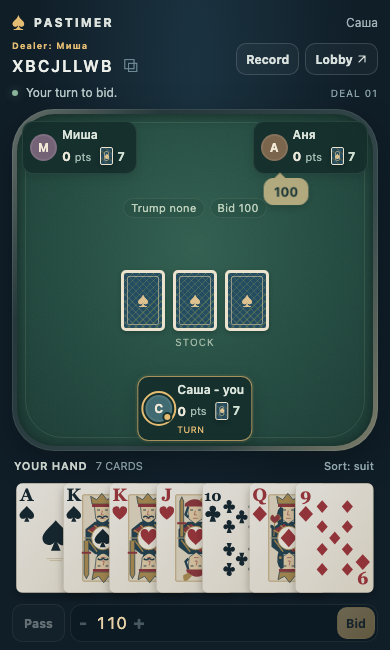
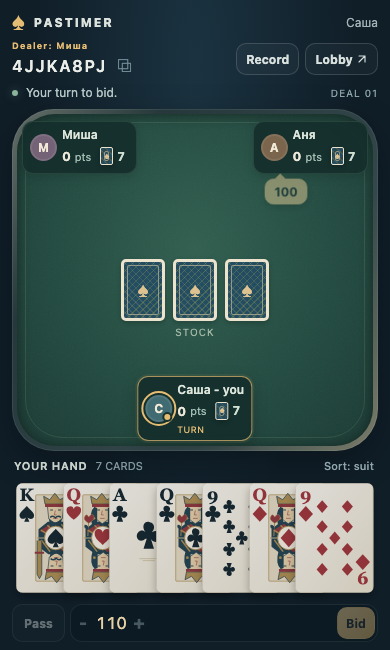
Record verified table-cues rollout and persistent game checks

diff --git a/docs/handoff.md b/docs/handoff.md
@@ -6,7 +6,7 @@ Updated 2026-11-14. Repository: `mvartanyan/pastimer`. Local Horse continuation:
 
 The Rust multiplayer platform, the owner's complete Thousand rules, audit verifier and redesigned card-table UI are implemented. **Pastimer is deployed and verified on Horse at https://1000.vartanyan.com**, using the established local `/Users/michael/dev/k3s-horse` setup. [@pastimerbot](https://t.me/pastimerbot) has a verified default `Play / Играть` menu button pointing to that origin.
 
-The running application source is `60c380824d4b0b3f55d36a79db950c5eb905f637`. Transfers now drag to player hands and turn on tap; eligible marriages default on, and the current trump uses crossed gold rings plus its suit. Incoming cards now use a highlight without sender/tap labels, and reopening a deal no longer replays stale receipts or miscounts the hand. The current gameplay update includes paced auction calls, stronger computer seats, one-screen play, readable cards, hand-selected transfers and table recovery after reopening. The owner confirmed actual Telegram launch, identity and table creation. Live browser checks also completed solo/two-human computer games and verified their proofs with the deployed audit binary. Original sessions, completed room and exact audit survived both pod replacement and this upgrade. See [the current Horse release record](horse-transfers-marriages-2026-11-14.md) for image digests, backups and checks; [the initial record](horse-2026-11-14.md) retains the first deployment history.
+The running application source is `f54714d388be37749979e8fe206a323c73d7de9e`. The table now has one centred top-view trump symbol, large rings on announcing cards, owner-anchored played cards, a persistent leader cue and animated collection to the winning hand. Contract information appears only at its owner's seat. Transfers now drag to player hands and turn on tap; eligible marriages default on, and the current trump uses crossed gold rings plus its suit. Incoming cards now use a highlight without sender/tap labels, and reopening a deal no longer replays stale receipts or miscounts the hand. The current gameplay update includes paced auction calls, stronger computer seats, one-screen play, readable cards, hand-selected transfers and table recovery after reopening. The owner confirmed actual Telegram launch, identity and table creation. Live browser checks also completed solo/two-human computer games and verified their proofs with the deployed audit binary. Original sessions, completed room and exact audit survived both pod replacement and this upgrade. See [the current Horse release record](horse-table-cues-2026-11-14.md) for image digests, backups and checks; [the initial record](horse-2026-11-14.md) retains the first deployment history.
 
 Relevant implementation commits:
 
@@ -16,6 +16,7 @@ Relevant implementation commits:
 - `0516a91` — keep local card selection responsive during background refresh, with a regression check that holds the refresh response open.
 - `f3fe9a9` - keep submitted actions responsive during background refresh and reject stale room snapshots; local regression and live Horse validation passed.
 - `4a9119c` - stack mobile lobby cards and normalize native form control heights and spacing.
+- `f54714d` - equal circular rings, declaring-card overlay, owner positions, leader/winner cues and trick collection.
 - `76064a6` - mouse/touch distribution onto recipient hands, tap to turn, drag back to cancel and no lower panel.
 - `60c3808` - default eligible marriages on, optional opt-out and prominent rings/suit trump marker.
 - `8458703` - constrain long recipient names in landscape; wait for actionable controls in browser checks.
@@ -110,7 +111,7 @@ npm run test:browser
 
 The Rust suite has 30 tests covering complete deals/matches, the attainable 380-point maximum, barrel behavior, sticks, privacy, rollback, four nines, per-player trick piles, restart recovery, rule replay, proof tampering, command races, retry idempotency, Telegram signatures and legacy compatibility. Browser checks cover the demo, full three-player Thousand play with real three-second closure, four-player here bidding/mixed-visibility distribution/dismissal, audit verification, reload/retry, card rendering, sorting, clipboard copying, mobile overflow and card selection during an in-flight refresh.
 
-Release builds and the four signed-identity screenshot flows also passed during the UI work. A container build/runtime check was completed before `ba4ac97`; **rebuild the image from the latest checkout** for deployment so it contains the redesigned assets. The subsequent local continuation verified native local-platform checks, public HTTPS and Horse runtime behavior; the owner has since confirmed actual Telegram launch, identity and table creation. See [the current release record](horse-transfers-marriages-2026-11-14.md) for the computer follow-up and live browser checks.
+Release builds and the four signed-identity screenshot flows also passed during the UI work. A container build/runtime check was completed before `ba4ac97`; **rebuild the image from the latest checkout** for deployment so it contains the redesigned assets. The subsequent local continuation verified native local-platform checks, public HTTPS and Horse runtime behavior; the owner has since confirmed actual Telegram launch, identity and table creation. See [the current release record](horse-table-cues-2026-11-14.md) for the computer follow-up and live browser checks.
 
 To verify a downloaded audit independently:
 
@@ -145,6 +146,7 @@ Consistent backups with successful SQLite integrity checks are on Horse:
 - `/var/backups/pastimer/pastimer-20261114-pre-receipts.sqlite`
 - `/var/backups/pastimer/pastimer-20261114-pre-receipts-final.sqlite`
 - `/var/backups/pastimer/pastimer-20261114-pre-drag-marriage.sqlite`
+- `/var/backups/pastimer/pastimer-20261114-pre-table-cues.sqlite`
 
 The prior image and build archives are retained for rollback. The temporary native builder is stopped, with no build tasks left running. Colima's unused failed-build cache was pruned (2.335GB); containers and volumes remained at zero, guest fstrim ran, temporary VM DNS was restored and `dotint-build` returned to Stopped. The original Docker context remains `colima`.
 
@@ -160,7 +162,7 @@ All 33 Rust tests, formatting, strict Clippy and the complete browser suites pas
 
 That release image manifest digest was `sha256:6c7f197a66f61470cd765ce9d1947fec7798867914e45a26881076a4424c5f9d`; its runtime image/config ID was `sha256:5df88912a5b95046d075998f2f85a8e912b236637a6bc68eec5b673e7f43902f`. Pod `pastimer-844c4f7458-j74cr` was Ready with zero restarts on the same PVC. The new pre-upgrade backup passed SQLite integrity checking. Native build archives and previous images are retained, the temporary builder is stopped, and Colima was not started for this follow-up.
 
-Reopen the Mini App to load the new assets, then create a computer table to test alone. A manual real-client computer-game playthrough is distinct from the passing signed synthetic browser flows. A Main Mini App/profile launch button remains optional; the default menu button is configured. Scheduled/off-host backups are not established by this setup. See [the current release record](horse-transfers-marriages-2026-11-14.md).
+Reopen the Mini App to load the new assets, then create a computer table to test alone. A manual real-client computer-game playthrough is distinct from the passing signed synthetic browser flows. A Main Mini App/profile launch button remains optional; the default menu button is configured. Scheduled/off-host backups are not established by this setup. See [the current release record](horse-table-cues-2026-11-14.md).
 
 ## Gameplay follow-up
 
@@ -180,7 +182,7 @@ IDs recover the table after reopening, including fresh browser storage.
 All 41 Rust tests, strict Clippy and full browser suites pass. Three/four-human
 deals and solo/two-human computer games complete, audits verify, and normal
 controls/cards fit seven portrait/landscape sizes from 320x480 to 1024x768.
-Reviewed screenshots are updated. See the [current release record](horse-transfers-marriages-2026-11-14.md)
+Reviewed screenshots are updated. See the [current release record](horse-table-cues-2026-11-14.md)
 for live verification and deployment identity.
 
 ## Receipt/count follow-up
@@ -199,7 +201,7 @@ after four plays. A stale played gift explains the displayed five. Source
 before the recipient's first play. A failing-before/passing-after regression
 reopens a five-card hand with empty browser storage. The complete browser suite
 passes, including the new receipt UI/count checks at three and four seats.
-See [the current release record](horse-transfers-marriages-2026-11-14.md) for live proof.
+See [the current release record](horse-table-cues-2026-11-14.md) for live proof.
 
 The final image also constrains transfer buttons when recipient names are long,
 including narrow landscape. Browser checks now use long player names and wait
@@ -225,3 +227,23 @@ The complete browser suite, focused multiple-marriage UI fixtures and actual
 human games with default marriage leads pass. Mouse/touch/cancel/invalid-drop,
 drag-back, face toggling, no lower panel, privacy, retries, audits and seven
 viewport geometries are covered. See the current release record for live proof.
+
+## Table clarity and trick collection
+
+Remove the central contract/name and preparation contract text. Contract order
+is shown at the owner's seat, including barrel/next-dealer cases. Marriage rings
+are equal circles viewed from above with an over-under crossing. Large rings
+sit on the announcing court card; the persistent trump stays top-centred.
+
+Played cards remain by their owners (left/right/lower), independently of play
+order and including the sitting-out dealer view. The leader stays highlighted.
+A completed trick highlights the winning hand/card and flies into that hand in
+the final part of the same three-second closure interval. Reduced motion keeps
+static winner/status cues. Public `trickLeader`, `trickWinner`, `announcingCard`
+fields are derived from existing public state and restore after reopening.
+
+All 41 Rust tests, strict Clippy and the full browser suite pass. Focused geometry
+checks verify round equal rings, no card/seat/trump overlap across seven sizes,
+collection endpoints and reduced motion. The real four-player view is tested
+with the dealer sitting out. See the current release record for image identity,
+live verification and persistence proof.

diff --git a/docs/horse-table-cues-2026-11-14.md b/docs/horse-table-cues-2026-11-14.md
@@ -1,0 +1,88 @@
+# Horse table cues update
+
+Date: 2026-11-14. Origin: https://1000.vartanyan.com. Telegram: https://t.me/pastimerbot.
+Previous release: [transfers and marriage defaults](horse-transfers-marriages-2026-11-14.md).
+
+## Table behavior
+
+Contract information appears only at its owner's seat/hand. The duplicate centre
+contract/name and preparation contract text are removed. The owner's contract
+also remains visible when that player is on the barrel or becomes the next dealer.
+
+The marriage symbol uses two equal circular gold rings viewed from above. The
+second ring visibly passes over the first at the crossings; there are no tilted
+ellipses. An announcing king/queen carries a large version of those rings until
+the trick is collected. The persistent trump marker stays at the top centre,
+between the opponent seats when space permits, otherwise immediately below them.
+
+Played cards are placed beside their owners: left, right and the lower player.
+They retain those positions regardless of play order, including the sitting-out
+dealer's four-seat view. Visible card-name/player captions are removed. Accessible
+card descriptions retain the owner and first-card information.
+
+The leader has a blue outline and LEAD badge while cards are being played. Once all three
+cards are played, the winning hand and card glow gold with TAKES TRICK. During the
+last 800 ms of the existing three-second closure window, all three cards shrink
+and move into that hand. The next leader is the winner. Reduced-motion users get
+the same explicit winner/card/status cues without flying cards.
+
+The existing rules, point calculation and persisted closure deadline are unchanged.
+The public view adds `trickLeader`, `trickWinner` and `announcingCard`, derived from
+public plays/marriage events so the cues also work after reopening mid-trick.
+No snapshot or database migration is required.
+
+## Release identity
+
+- Application source: `f54714d388be37749979e8fe206a323c73d7de9e`.
+- Image: `docker.io/library/pastimer:commit-f54714d388be37749979e8fe206a323c73d7de9e-amd64`.
[1 lines of base64/hex data omitted]
+- Manifest digest: `sha256:b342f0f711a527efab73ca350e2a00684d149c41d6fe5f2c6199505db540cd64`.
+- Runtime image/config ID: `sha256:de8df5f00439111f4bd038b890fbd12e8dfcc6921997ae60792a82522f7b6af4`.
+- Pod: `pastimer-7546b4fc4c-9pmbc` - Ready, zero restarts.
+
+The immutable amd64 image was built natively on Horse from a clean Git archive.
+Only Pastimer's image changes. The original one-writer Recreate strategy,
+`pastimer-data` PVC, Secret, ingress and TLS remain in place.
+
+## Verification
+
+All 41 Rust tests, formatting and strict Clippy pass. Projection checks cover
+first leader, announcing card, actual winner and next leader through full three-
+and four-player deals. Existing privacy, audit, persistence and rule tests remain.
+
+The complete browser suite passes: demo, three/four-human games, marriage fixtures,
+solo/two-human computers, drag/turn transfers, retries, recovery and audit replay.
+Cards/controls fit seven portrait/landscape sizes. Additional geometry checks
+verify that played cards do not overlap seats, each other or the centred trump.
+The rings render as equal circles. The collection fixture verifies all three
+animation endpoints at the winner's hand and the reduced-motion alternative.
+The sitting-out dealer's viewport checks run between plays, outside the timed
+closure window. [Reviewed previews](screenshots/README.md) include the new table
+and [marriage/winner fixture](screenshots/07-trick-owners.png).
+
+Public HTTPS health, authentication restrictions and all five frontend assets
+pass; assets match the committed source byte-for-byte. The pod is Ready with
+zero restarts and the expected runtime image ID. Old sessions, the completed
+table and its exact historical audit survived unchanged.
+
+Full live three/four-player browser games passed owner positions, leader and
+winning-hand cues, all three collection targets, privacy, transfers, exact
+retries, fresh-storage recovery and viewport bounds. The sitting-out dealer view
+also passed. Both proofs passed locally and inside the deployed verifier:
+- 3 players: `CN24AF9M`, one deal, 87 events, 30 moves.
+- 4 players: `Z5U28QDA`, one deal, 91 events, 31 moves.
+
+## Operations
+
+Consistent pre-upgrade SQLite backup (integrity check: ok):
+`/var/backups/pastimer/pastimer-20261114-pre-table-cues.sqlite` (2641920 bytes).
+Previous images, backups and native build archives remain available. Preserve the
+PVC for rollback. The image includes the same production auth and no-store assets;
+no cache invalidation or credential update is needed.
+
+The temporary native builder is stopped with no isolated build tasks running.
+Colima was not started. Canonical manifests are [deploy/horse](../deploy/horse/),
+mirrored to `/Users/michael/dev/k3s-horse/pastimer/`. Ignored logs/proofs/screenshots
+are under `artifacts/deployments/20261114-tricks/`. Controlled UI fixtures are
+labelled separately from real rules-engine games. Live browser identities are
+synthetic; a manual Telegram-client playthrough is a separate check.

diff --git a/docs/deployment.md b/docs/deployment.md
@@ -1,12 +1,12 @@
 # Deploying Pastimer on Horse / k3s
 
-Status on 2026-11-14: deployed on Horse at https://1000.vartanyan.com, with [@pastimerbot](https://t.me/pastimerbot) connected through its default `Play / Играть` menu button. The [Horse deployment record](horse-transfers-marriages-2026-11-14.md) contains the actual source revision, immutable image/digests, checks and backup paths. The canonical overlay is `deploy/horse/`; the rendered copy and operating notes are in the local `/Users/michael/dev/k3s-horse/pastimer` project. The owner confirmed real Telegram launch, signed-in identity and table creation. The current layout/computer release passes live solo and two-human browser games with signed synthetic identities; these are distinct from a manual real-client multiplayer playthrough.
+Status on 2026-11-14: deployed on Horse at https://1000.vartanyan.com, with [@pastimerbot](https://t.me/pastimerbot) connected through its default `Play / Играть` menu button. The [Horse deployment record](horse-table-cues-2026-11-14.md) contains the actual source revision, immutable image/digests, checks and backup paths. The canonical overlay is `deploy/horse/`; the rendered copy and operating notes are in the local `/Users/michael/dev/k3s-horse/pastimer` project. The owner confirmed real Telegram launch, signed-in identity and table creation. The current layout/computer release passes live solo and two-human browser games with signed synthetic identities; these are distinct from a manual real-client multiplayer playthrough.
 
 The application runs as one replica with a persistent SQLite volume. The deployment uses Recreate updates so old and new pods do not write the database concurrently. The manifests create only the `pastimer` namespace and its application resources. Keep the cluster's existing ingress, certificate issuer and storage configuration.
 
 ## Actual Horse overlay
 
-For this installation use `kubectl kustomize deploy/horse` and the scoped SSH commands in [the deployment record](horse-transfers-marriages-2026-11-14.md). The base `deploy/k3s` directory remains hostname-neutral; the example ingress is still an example. Future releases must use a new tested immutable image and preserve the existing PVC. The generic instructions below also apply to a fresh installation.
+For this installation use `kubectl kustomize deploy/horse` and the scoped SSH commands in [the deployment record](horse-table-cues-2026-11-14.md). The base `deploy/k3s` directory remains hostname-neutral; the example ingress is still an example. Future releases must use a new tested immutable image and preserve the existing PVC. The generic instructions below also apply to a fresh installation.
 
 ## Container image
 

diff --git a/README.md b/README.md
@@ -2,7 +2,7 @@
 
 A Rust server for multiplayer Telegram card games, with SQLite persistence and a shared Mini App. **Thousand / тысяча is the first complete game**, with the agreed house rules for three or four players. See the [English rules](docs/thousand-rules.md) or [русские правила](docs/thousand-rules.ru.md). `high-card-demo` is a five-round infrastructure exercise for 2–4 players.
 
-Live deployment: [1000.vartanyan.com](https://1000.vartanyan.com). Open [@pastimerbot](https://t.me/pastimerbot) in Telegram and use `Play / Играть` for signed Mini App access. [Horse deployment and verification record](docs/horse-transfers-marriages-2026-11-14.md).
+Live deployment: [1000.vartanyan.com](https://1000.vartanyan.com). Open [@pastimerbot](https://t.me/pastimerbot) in Telegram and use `Play / Играть` for signed Mini App access. [Horse deployment and verification record](docs/horse-table-cues-2026-11-14.md).
 
 Starting a new session? Read the [handoff](docs/handoff.md) for implementation status, source map, local setup, validation and the live Horse deployment record. [AGENTS.md](AGENTS.md) records project conventions; the [screenshot gallery](docs/screenshots/README.md) shows the current UI.
 

diff --git a/docs/horse-computers-2026-11-14.md b/docs/horse-computers-2026-11-14.md
@@ -3,7 +3,7 @@
 Date: 2026-11-14. Origin: https://1000.vartanyan.com.
 Telegram bot: https://t.me/pastimerbot.
 
-This is a historical release record. See the [current receipt fix](horse-transfers-marriages-2026-11-14.md). The [initial deployment record](horse-2026-11-14.md)
+This is a historical release record. See the [current receipt fix](horse-table-cues-2026-11-14.md). The [initial deployment record](horse-2026-11-14.md)
 retains the infrastructure discovery, original release and refresh-race fix.
 
 ## Release identity

diff --git a/docs/horse-gameplay-2026-11-14.md b/docs/horse-gameplay-2026-11-14.md
@@ -2,7 +2,7 @@
 
 Date: 2026-11-14. Origin: https://1000.vartanyan.com. Telegram: https://t.me/pastimerbot.
 
-This is a historical release record. See the [current receipt fix](horse-transfers-marriages-2026-11-14.md). Earlier releases remain documented in the
+This is a historical release record. See the [current receipt fix](horse-table-cues-2026-11-14.md). Earlier releases remain documented in the
 [initial deployment](horse-2026-11-14.md) and [computer-seat rollout](horse-computers-2026-11-14.md).
 
 ## Release identity

diff --git a/docs/horse-2026-11-14.md b/docs/horse-2026-11-14.md
@@ -1,6 +1,6 @@
 # Initial Horse deployment - 2026-11-14
 
-Current release: [incoming receipt and hand-count fix](horse-transfers-marriages-2026-11-14.md). The record below describes the initial deployment and refresh fix.
+Current release: [incoming receipt and hand-count fix](horse-table-cues-2026-11-14.md). The record below describes the initial deployment and refresh fix.
 
 Public origin: https://1000.vartanyan.com
 

diff --git a/docs/horse-receipts-2026-11-14.md b/docs/horse-receipts-2026-11-14.md
@@ -1,7 +1,7 @@
 # Horse receipt and hand-count fix
 
 Date: 2026-11-14. Origin: https://1000.vartanyan.com. Telegram: https://t.me/pastimerbot.
-Current release: [transfers and marriage defaults](horse-transfers-marriages-2026-11-14.md).
+Current release: [transfers and marriage defaults](horse-table-cues-2026-11-14.md).
 Previous release: [gameplay update](horse-gameplay-2026-11-14.md).
 
 ## Change and diagnosis

diff --git a/docs/horse-transfers-marriages-2026-11-14.md b/docs/horse-transfers-marriages-2026-11-14.md
@@ -1,6 +1,7 @@
 # Horse transfer and marriage update
 
 Date: 2026-11-14. Origin: https://1000.vartanyan.com. Telegram: https://t.me/pastimerbot.
+Current release: [table cues and collection](horse-table-cues-2026-11-14.md).
 Previous release: [receipt/count fix](horse-receipts-2026-11-14.md).
 
 ## Behavior
